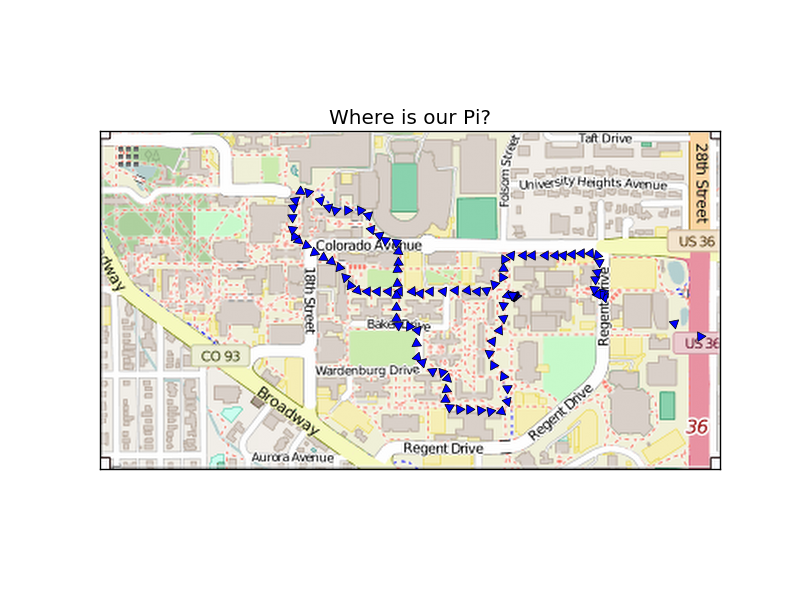
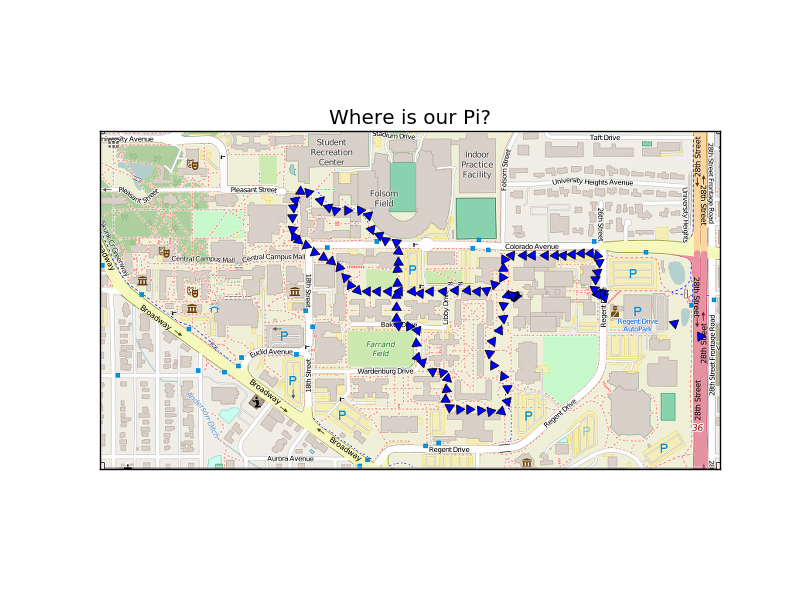
updated with stats

Changed region(s): [[0.125, 0.21, 0.9062, 0.78]]

diff --git a/Website/templates/where.html b/Website/templates/where.html
@@ -22,7 +22,7 @@
 		</div>
 
 		<div id="data">
-			<img src="https://ajdiaz.files.wordpress.com/2014/09/screenshot-from-2014-09-18-2000171.png?w=764" width="900" height="500">
+			<img src="https://raw.githubusercontent.com/dbrill/FlyThePi/master/gps/stats.png" width="800" height="600">
 		</div>
 	</body>
 

diff --git a/Website/static/where.css b/Website/static/where.css
@@ -16,8 +16,8 @@ body {
 }
 
 #data {
-        height: 500px;
-        width: 900px;
+        height: 800px;
+        width: 600px;
         border: 2px solid white;
         background-color: #000000;
         margin-top: 650px;
